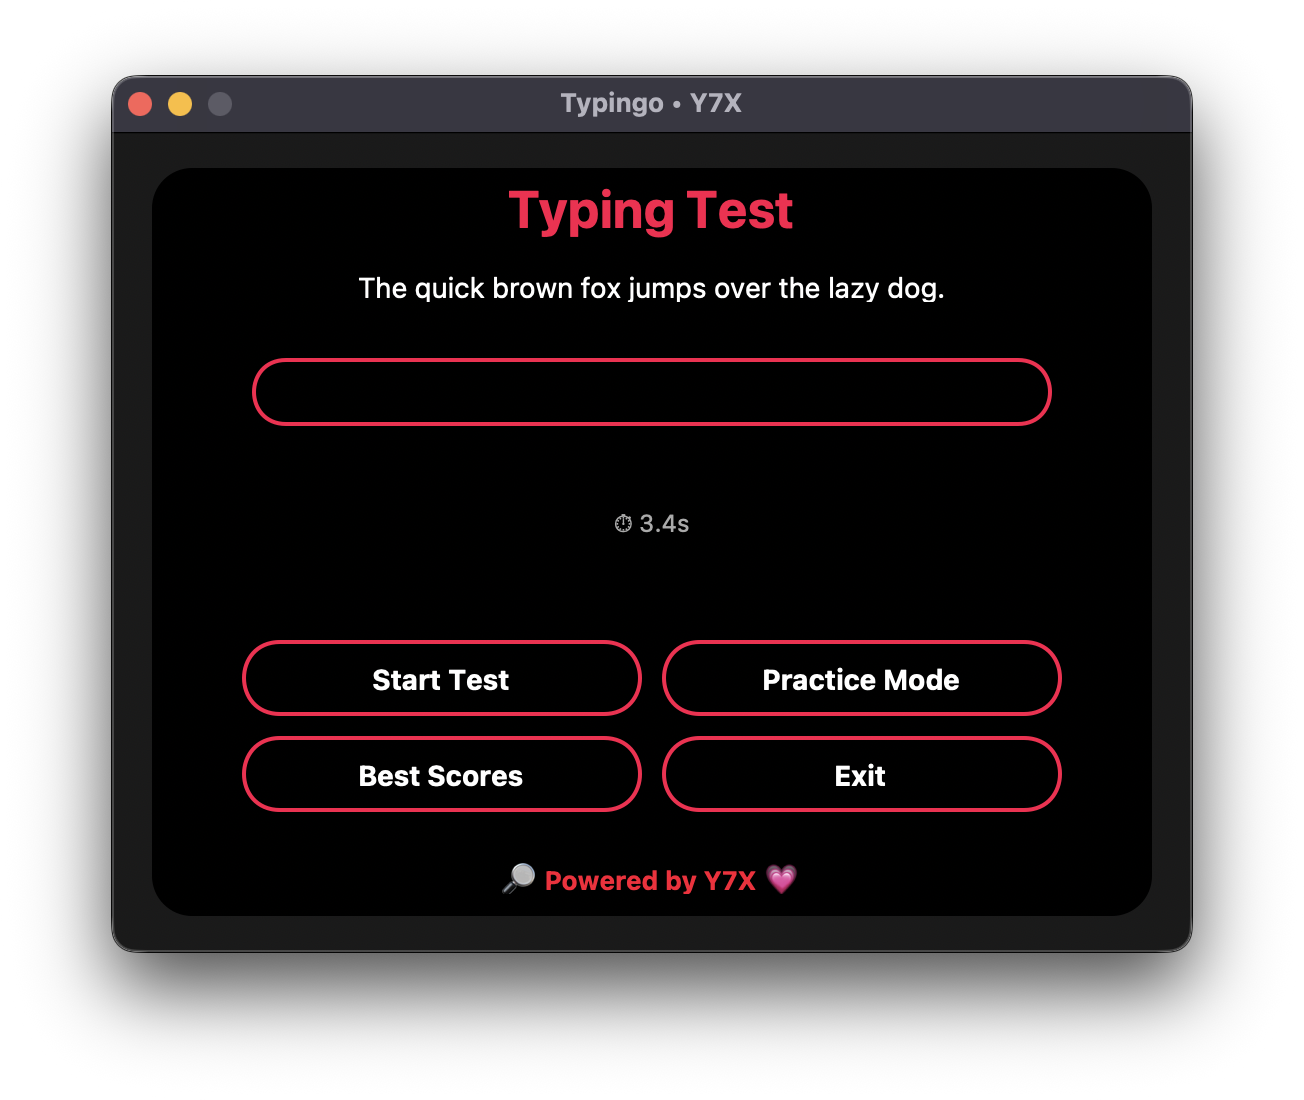
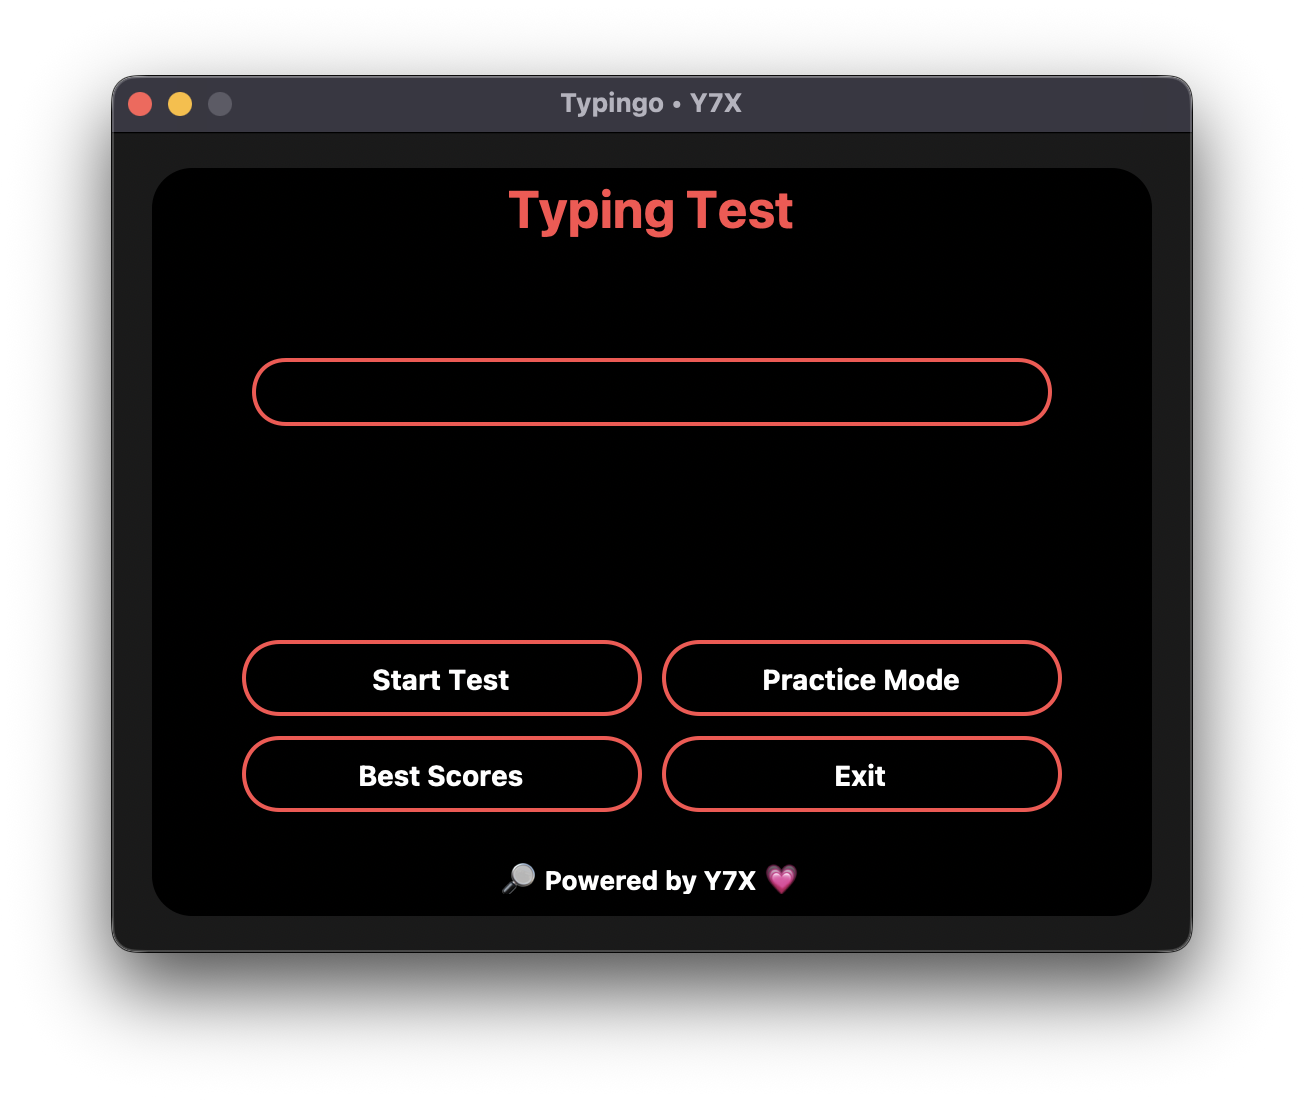
🎯 Where Precision Meets Performance

diff --git a/typingo.py b/typingo.py
@@ -62,10 +62,17 @@ class TypingTestApp:
         return round(matcher.ratio() * 100, 2)
 
     def styled_button(self, master, text, command):
-        return ctk.CTkButton(master, text=text, width=200, height=38, corner_radius=22,
-                             fg_color="#000000", hover_color="#ff1a5c",
-                             border_width=2, border_color="#ff004c",
-                             font=("Segoe UI", 14, "bold"), text_color="white",
+        return ctk.CTkButton(master,
+                             text=text,
+                             width=200,
+                             height=38,
+                             corner_radius=22,
+                             fg_color="#000000",
+                             hover_color="#ff1a5c",
+                             border_width=2,
+                             border_color="#ff4d4d",
+                             font=("Segoe UI", 14, "bold"),
+                             text_color="white",
                              command=command)
 
     def setup_ui(self):
@@ -73,14 +80,21 @@ class TypingTestApp:
         self.frame.pack(expand=True, fill="both", padx=20, pady=18)
         self.frame.grid_columnconfigure((0, 1), weight=1)
 
-        self.title_label = ctk.CTkLabel(self.frame, text="Typing Test", font=("Segoe UI", 26, "bold"), text_color="#ff004c")
+        self.title_label = ctk.CTkLabel(self.frame, text="Typing Test", font=("Segoe UI", 26, "bold"), text_color="#ff4d4d")
         self.title_label.grid(row=0, column=0, columnspan=2, pady=(4, 10))
 
-        self.test_sentence_label = ctk.CTkLabel(self.frame, text="", font=("Segoe UI", 14), wraplength=460, justify="center", text_color="#ffffff")
+        self.test_sentence_label = ctk.CTkLabel(self.frame, text="", font=("Segoe UI", 14), wraplength=460, justify="center", text_color="white")
         self.test_sentence_label.grid(row=1, column=0, columnspan=2, pady=(0, 6))
 
-        self.input_box = ctk.CTkEntry(self.frame, width=400, height=34, font=("Segoe UI", 14), corner_radius=20,
-                                      fg_color="#000000", border_color="#ff004c", border_width=2, text_color="white")
+        self.input_box = ctk.CTkEntry(self.frame,
+                                      width=400,
+                                      height=34,
+                                      font=("Segoe UI", 14),
+                                      corner_radius=20,
+                                      fg_color="#000000",
+                                      border_color="#ff4d4d",
+                                      border_width=2,
+                                      text_color="white")
         self.input_box.grid(row=2, column=0, columnspan=2, pady=(16, 6))
         self.input_box.bind("<KeyRelease>", self.check_typing)
         self.input_box.bind("<Return>", self.finish_test)
@@ -106,15 +120,14 @@ class TypingTestApp:
 
         self.quit_btn = self.styled_button(self.frame, "Exit", self.root.destroy)
         self.quit_btn.grid(row=7, column=1, pady=5, padx=5, sticky="w")
-        
+
         self.branding = ctk.CTkLabel(
-        self.frame,
-        text="🔎 Powered by Y7X 💗",
-        font=("Segoe UI", 13, "bold"),
-        text_color="#ff0033"  # Bright red glow style
+            self.frame,
+            text="🔎 Powered by Y7X 💗",
+            font=("Segoe UI", 13, "bold"),
+            text_color="white"
         )
         self.branding.grid(row=8, column=0, columnspan=2, pady=(14, 0))
-
 
     def start_test(self):
         self.practice_mode_on = False
@@ -168,8 +181,8 @@ class TypingTestApp:
 
         if len(user_input) > 0 and len(self.test_sentence) >= len(user_input):
             if user_input[-1] != self.test_sentence[len(user_input) - 1]:
-                self.input_box.configure(border_color="#ff004c")
-                self.root.after(200, lambda: self.input_box.configure(border_color="#ff004c"))
+                self.input_box.configure(border_color="#ff4d4d")
+                self.root.after(200, lambda: self.input_box.configure(border_color="#ff4d4d"))
 
         self.feedback_label.configure(text=styled)
 
